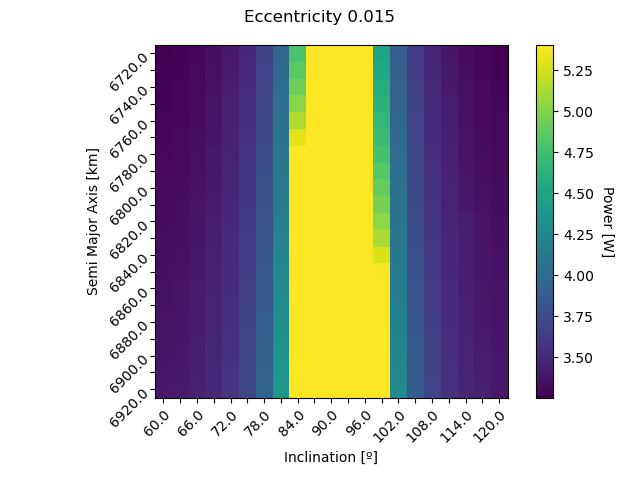
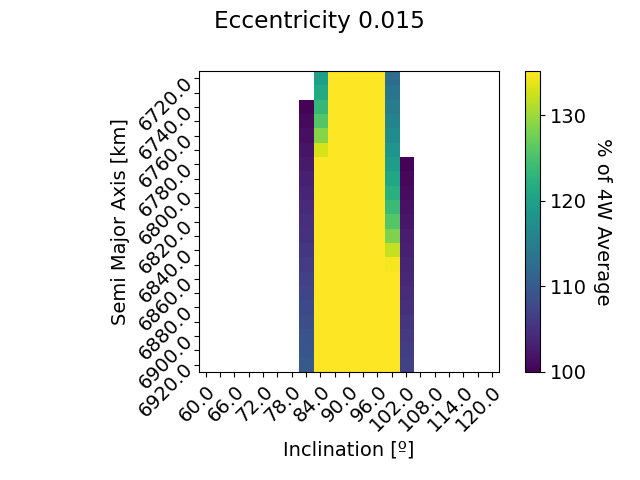
plot_average_heatmap
+ % of requirement functionality.
+ Threshold for 100% of requirement (aka compliant)
+ Option for selecting whether we want to show uncompliant results.

diff --git a/Power_SIM_2024/tudat_implementation/power_sim.py b/Power_SIM_2024/tudat_implementation/power_sim.py
@@ -1,10 +1,10 @@
 import numpy as np
 
 
-from tumbling_code.main import random_quaternion_tumbling
+from tumbling_code.attitude import generate_random_attitudes
 
 
-def power_output(solar_pos_body_frame, solar_arr):
+def power_output_vector(solar_pos_body_frame, solar_arr):
     # Extract coordinates from solar position in body frame. 
     x = solar_pos_body_frame[:,0]
     y = solar_pos_body_frame[:,1]
@@ -18,6 +18,28 @@ def power_output(solar_pos_body_frame, solar_arr):
         solar_arr[3]*np.abs(np.min([y, zeros], axis=0))
     Pz = solar_arr[4]*np.max([z, zeros], axis=0) + \
         solar_arr[5]*np.abs(np.min([z, zeros], axis=0))
+
+    return Px+Py+Pz
+
+
+def power_output(orient, solar_arr):
+    """Retrieves power production depending on satellite orientation. Considers
+    an external reference frame where X-axis is sun-pointing. Assumes direct
+    correlation between cosine of incidence and power production.
+    Inputs:
+    - orient: 3x3 array of satellite orientation within the out-of-vehicle
+    frame.
+    - solar_arr: 6-element array of the solar panel power production.
+    """
+    # Extracts X-component (Sun-facing) of each satellite attitude axis.
+    Dx_x = orient[0,0]
+    Dy_x = orient[1,0]
+    Dz_x = orient[2,0]
+
+    # Calculates power production in each of satellite's axes.
+    Px = solar_arr[0]*max([Dx_x, 0]) + solar_arr[1]*np.abs(min([Dx_x, 0]))
+    Py = solar_arr[2]*max([Dy_x, 0]) + solar_arr[3]*np.abs(min([Dy_x, 0]))
+    Pz = solar_arr[4]*max([Dz_x, 0]) + solar_arr[5]*np.abs(min([Dz_x, 0]))
 
     return Px+Py+Pz
 
@@ -39,6 +61,26 @@ def tumbling_powers(solarArray, numVals = 1):
     return tumblingPowers
 
 
+# New method for tumbling. Creates a bunch of quaternions, transforms them
+# into rotation matrices and takes these as a set of attitudes.
+def random_quaternion_tumbling(solarArray, numAttitudes = 2000,
+                                randomAvg = True, randomSet = False):
+    # Generate random set of attitudes.
+    random_atts = generate_random_attitudes(numAttitudes)
+    # Initializes empty power vector.
+    powersRand = np.empty(0)
+
+    for att_index in range(numAttitudes):
+        # Calculate power produced in each attitude.
+        if randomAvg:
+            powersRand = np.append(powersRand, power_output(
+                random_atts[att_index], solarArray))
+
+    powersRand = np.average(powersRand)
+
+    return powersRand
+
+
 def orbit_average(
         stateArr: np.array,
         dependentArr: np.array,
@@ -51,7 +93,8 @@ def orbit_average(
         # average powers in the tumbling array. 
         powerSolar = tumblingPowers
     else:
-        inertial_to_body_rot_frame = dependentArr[:,5:14]
+        # TODO: This whole implementation is now wrong. needs to be fixed.
+        '''inertial_to_body_rot_frame = dependentArr[:,5:14]
         solar_pos_relative_to_sat = dependentArr[:,2:5]
         # Defines times array (In hours). 
         times = (dependentArr[:,0] - dependentArr[0,0]) / 60**2 
@@ -70,9 +113,10 @@ def orbit_average(
         solar_pos_body_frame_unit =\
             solar_pos_body_frame / np.linalg.norm(
                 solar_pos_body_frame, axis= 1)[:,None]
+
         powerSolar = power_output(
             solar_pos_body_frame= solar_pos_body_frame_unit,
-            solar_arr= solarArray)
+            solar_arr= solarArray)'''
         
     # NOTE: Sections that use the dependent array are very sensitive to 
     # adding or removing dependent variables to the propagation.
@@ -93,3 +137,4 @@ def orbit_average(
     orbitAvg = np.average(powerSolar[:indx[-1,0]])
 
     return orbitAvg
+

diff --git a/Power_SIM_2024/tudat_implementation/tudat_setup.py b/Power_SIM_2024/tudat_implementation/tudat_setup.py
@@ -18,12 +18,7 @@ spice.load_standard_kernels()
 # Defines common directories. 
 data_dir = "./data/"
 
-# Defines origin of global reference frame. 
-global_frame_origin = "Earth"
-global_frame_orientation = "J2000"
 
-# Defines central body of simulation. 
-central_body = ["Earth"]
 
 # TODO: Understand what variables are actually necessary here. 
 def create_bodies(
@@ -55,6 +50,10 @@ def create_bodies(
         "Sun"
     ]
 
+    # Defines origin of global reference frame.
+    global_frame_origin = "Earth"
+    global_frame_orientation = "J2000"
+
     # Creates default body settings. 
     body_settings = environment_setup.get_default_body_settings(
         bodies_to_create, global_frame_origin, global_frame_orientation
@@ -85,8 +84,8 @@ def create_bodies(
     drag_coefficient = 1.2
 
     # Defines solar occulting bodies.
-    occulting_bodies = dict()
-    occulting_bodies["Sun"] = ["Earth"]
+    occultingBodies = dict()
+    occultingBodies["Sun"] = ["Earth"]
 
     # Defines vehicle solar radiation pressure properties. 
     # NOTE: Not necessary for occultation. Using compute_shadow_function is, 
@@ -94,7 +93,7 @@ def create_bodies(
     ref_area_srp = 100
     rad_press_coeff = 1.2
     vehicle_target_settings = environment_setup.radiation_pressure.cannonball_radiation_target(
-        ref_area_srp, rad_press_coeff, occulting_bodies
+        ref_area_srp, rad_press_coeff, occultingBodies
         )
     body_settings.get("davinci").radiation_pressure_target_settings = vehicle_target_settings
 
@@ -146,6 +145,9 @@ def create_prop_settings(
 
     # Define bodies that are propagated, and their central bodies of propagation.
     bodies_to_propagate = ["davinci"]
+
+    # Defines central body of simulation.
+    central_body = ["Earth"]
     
     # TODO: Figure out better spherical harmonic degrees to use. 
     # Checks whether atmospheric sims will be performed. 
@@ -305,19 +307,6 @@ def propagate_orbit(
     stateArr = result2array(stateHistory)
     dependentArr = result2array(dependentHistory)
 
-    # Might be useful if you want to save this data at some point in the future. 
-    """ # Saves values to data files.  
-    save2txt(
-        solution= stateHistory, 
-        filename= "state_data.csv",
-        directory= data_dir
-    )
-    save2txt(
-        solution= dependentHistory,
-        filename= "dependent_data.csv",
-        directory= data_dir
-    ) """
-
     return stateHistory, dependentHistory, stateArr, dependentArr
 
     
@@ -374,4 +363,3 @@ class nadir_pointing:
 
             # Updates time. 
             self.current_time = current_time
-    

diff --git a/Power_SIM_2024/tudat_implementation/tumbling_code/attitude.py b/Power_SIM_2024/tudat_implementation/tumbling_code/attitude.py
@@ -18,19 +18,12 @@ def get_quaternion(rot_vec, angle):
     return np.array([q_0, q_1, q_2, q_3])
 
 
+# TODO: Having the uniform distribution inside this function instead of the 
+# main random quaternion generator might introduce some weird statistical issues. 
+# Revise this function. 
 def random_quaternion():
     """Generate a random unit quaternion."""
     u1, u2, u3 = np.random.uniform(0, 1, 3)
-    q0 = np.sqrt(1 - u1) * np.sin(2 * np.pi * u2)
-    q1 = np.sqrt(1 - u1) * np.cos(2 * np.pi * u2)
-    q2 = np.sqrt(u1) * np.sin(2 * np.pi * u3)
-    q3 = np.sqrt(u1) * np.cos(2 * np.pi * u3)
-    return np.array([q0, q1, q2, q3])
-
-
-def set_quaternion(quaternion_val):
-    """Generate a set unit quaternion."""
-    u1, u2, u3 = np.ones(3)*quaternion_val
     q0 = np.sqrt(1 - u1) * np.sin(2 * np.pi * u2)
     q1 = np.sqrt(1 - u1) * np.cos(2 * np.pi * u2)
     q2 = np.sqrt(u1) * np.sin(2 * np.pi * u3)
@@ -53,16 +46,6 @@ def generate_random_attitudes(num_attitudes):
     attitudes = []
     for _ in range(num_attitudes):
         q = random_quaternion()
-        R = quaternion_to_rotation_matrix(q)
-        attitudes.append(R)
-    return attitudes
-
-
-def generate_set_attitudes(num_attitudes):
-    """Generate a list of random satellite attitudes."""
-    attitudes = []
-    for quaternion_val in np.linspace(0,1,num_attitudes):
-        q = set_quaternion(quaternion_val)
         R = quaternion_to_rotation_matrix(q)
         attitudes.append(R)
     return attitudes
@@ -143,24 +126,3 @@ def fibonacci_sphere(samples=1000):
 
     return points
 
-
-def power_output(orient, solar_arr):
-    """Retrieves power production depending on satellite orientation. Considers
-    an external reference frame where X-axis is sun-pointing. Assumes direct
-    correlation between cosine of incidence and power production.
-    Inputs:
-    - orient: 3x3 array of satellite orientation within the out-of-vehicle
-    frame.
-    - solar_arr: 6-element array of the solar panel power production.
-    """
-    # Extracts X-component (Sun-facing) of each satellite attitude axis.
-    Dx_x = orient[0,0]
-    Dy_x = orient[1,0]
-    Dz_x = orient[2,0]
-
-    # Calculates power production in each of satellite's axes.
-    Px = solar_arr[0]*max([Dx_x, 0]) + solar_arr[1]*np.abs(min([Dx_x, 0]))
-    Py = solar_arr[2]*max([Dy_x, 0]) + solar_arr[3]*np.abs(min([Dy_x, 0]))
-    Pz = solar_arr[4]*max([Dz_x, 0]) + solar_arr[5]*np.abs(min([Dz_x, 0]))
-
-    return Px+Py+Pz

diff --git a/Power_SIM_2024/tudat_implementation/tumbling_code/main.py b/Power_SIM_2024/tudat_implementation/tumbling_code/main.py
@@ -17,27 +17,8 @@ Assumptions and units stuff.
 - All other units in SI. NOTE: This means radians.
 """
 
-# New method for tumbling. Creates a bunch of quaternions, transforms them
-# into rotation matrices and takes these as a set of attitudes. 
-def random_quaternion_tumbling(solarArray, numAttitudes = 2000,
-                                randomAvg = True, randomSet = False):
-    # Generate random set of atttiudes. 
-    random_atts = att.generate_random_attitudes(numAttitudes)
-
-    # Initializes empty power vector.
-    powersRand = np.empty(0)
-
-    for att_index in range(numAttitudes):
-        # Calculate power produced in each attitude. 
-        if randomAvg:
-            powersRand = np.append(powersRand, att.power_output(
-                random_atts[att_index], solarArray))
-
-    powersRand = np.average(powersRand)
-
-    return powersRand
-
-if __name__ == "__main__":
+# NOTE: Old code. Ignore... 
+""" if __name__ == "__main__":
     ###########################################################################
     # ORBITAL STUFF ###########################################################
     ###########################################################################
@@ -211,7 +192,7 @@ if __name__ == "__main__":
 
     # Just some plotting for fun. 
     # Feel free to disable if you don't like spaghetti. :)
-    if tumbling_spaghetti := False:
+    if tumbling_spaghetti := False: 
         fig = plt.figure(figsize=(15,8), dpi=80)
 
         ax = fig.add_subplot(1, 1, 1)
@@ -224,7 +205,7 @@ if __name__ == "__main__":
         ax.grid()
 
         #plt.legend()
-        plt.show()
+        plt.show()"""
 
 
 

diff --git a/Power_SIM_2024/tudat_implementation/assist_functions.py b/Power_SIM_2024/tudat_implementation/assist_functions.py
@@ -24,18 +24,32 @@ def plot_average_heatmap(
         incVals: npt.NDArray,
         semiMajorVals: npt.NDArray,
         dataDir: str,
-        runCount: int
+        runCount: int,
+        powerReq: float= 4.0,
+        showUncompliant: bool= False,
 ):
     valuesDir = dataDir + f"run_num_{runCount}/orbit_averages/"
     plotsDir = dataDir + f"run_num_{runCount}/plots/"
+
+    plt.rcParams.update({'font.size': 14})
 
     for i, eccentricity in enumerate(eccVals):
         # Reads data from saved csv files.
         importDir = valuesDir + f"orbit_avg_eccentricity{eccentricity}.csv"
         data = np.genfromtxt(importDir, delimiter=",")
 
+        # Creates array of ratio to required power.
+        alphaArr = data/powerReq
+        alphaArr[alphaArr < 1.0] = 0
+        alphaArr[alphaArr >= 1.0] = 1
+
         fig, ax = plt.subplots()
-        im = ax.imshow(data)
+
+        # Checks whether we want to see uncompliant (<100% of 4W) results.
+        if showUncompliant:
+            im = ax.imshow(data / powerReq * 100)
+        else:
+            im = ax.imshow(data/powerReq * 100, vmin= 100, alpha= alphaArr)
 
         # Creates xticks for semiMajor. Assigns every third an empty space to make it more readable.
         yTicks = np.array(semiMajorVals*1e-3, dtype=str)       # km
@@ -54,7 +68,7 @@ def plot_average_heatmap(
 
         # Create colorbar
         cbar = ax.figure.colorbar(im, ax=ax)
-        cbar.ax.set_ylabel("Power [W]", rotation=-90, va="bottom")
+        cbar.ax.set_ylabel("% of 4W Average", rotation=-90, va="bottom")
 
         fig.suptitle(f"Eccentricity {eccentricity}")
 

diff --git a/Power_SIM_2024/tudat_implementation/main.py b/Power_SIM_2024/tudat_implementation/main.py
@@ -188,7 +188,8 @@ if __name__ == "__main__":
             incVals= incVals,
             semiMajorVals= semiMajorVals,
             dataDir= dataDir,
-            runCount= 4
+            runCount= 4,
+            showUncompliant= True
         )
 
 
